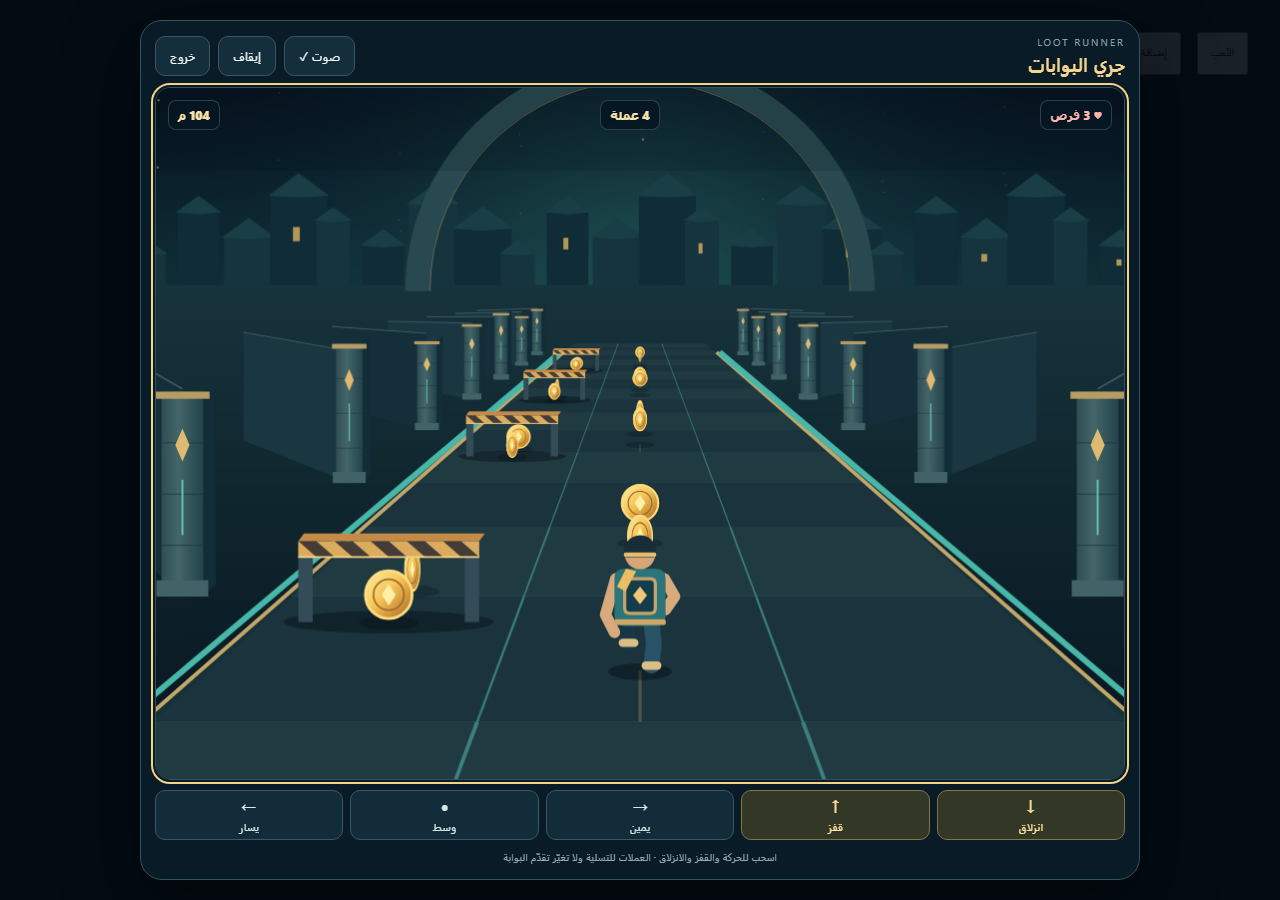
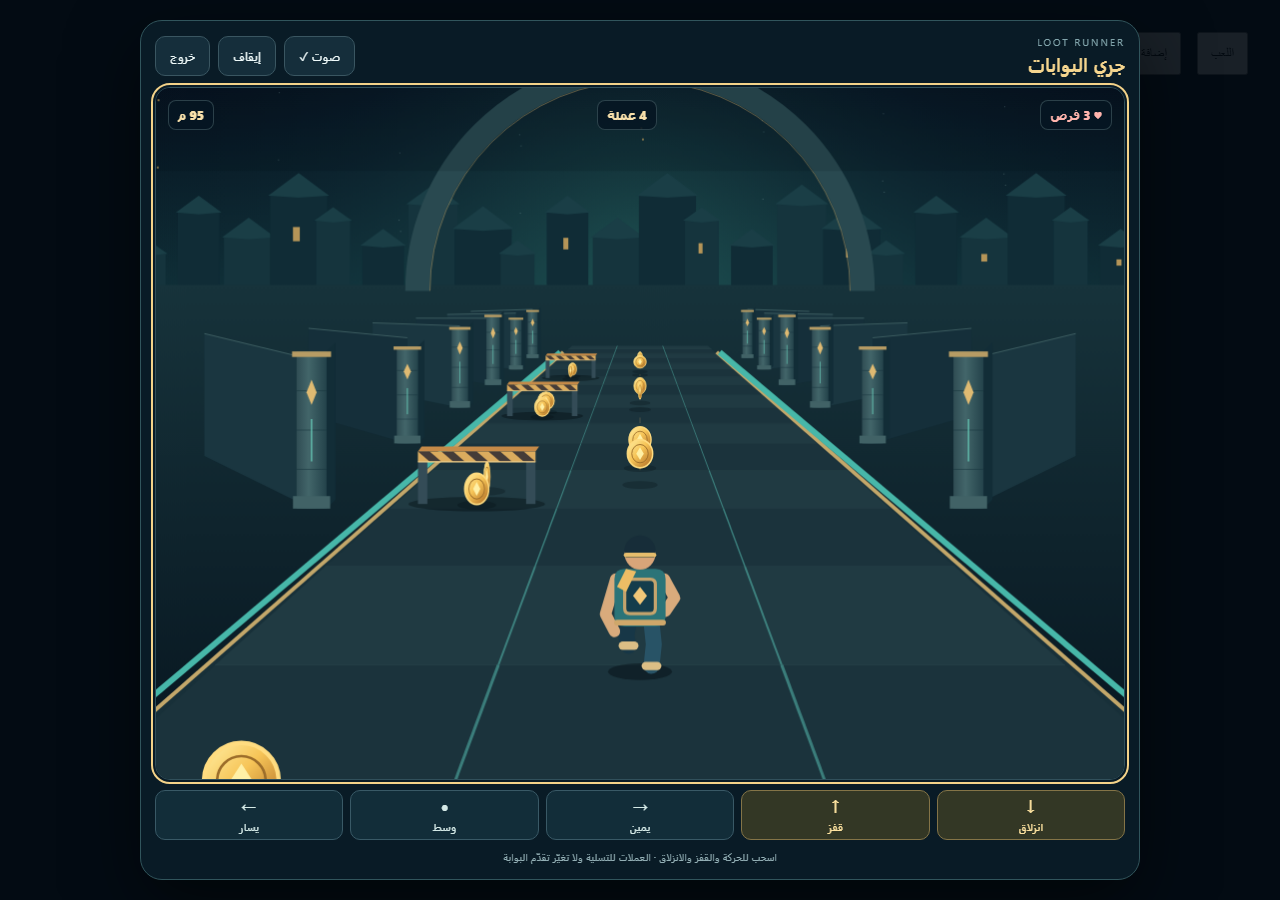
Improve runner action pacing and challenge; sync onboarding per account

diff --git a/js/runner-engine.js b/js/runner-engine.js
@@ -2,7 +2,7 @@
   'use strict';
   const LANES = 3, MAX_HEARTS = 3, MAX_ENTITIES = 48, MAX_EVENTS = 16;
   const FAR = 80, SPAWN_Z = 64, BASE_SPEED = 14, MAX_SPEED = 32;
-  const JUMP_MS = 1100, SLIDE_MS = 900, INVULNERABLE_MS = 1100;
+  const JUMP_MS = 640, SLIDE_MS = 480, ACTION_RECOVERY_MS = 70, INPUT_BUFFER_MS = 140, INVULNERABLE_MS = 1100;
   const clamp = (value, low, high) => Math.max(low, Math.min(high, value));
   const clean = value => String(value ?? '').trim().replace(/\s+/g, ' ');
 
@@ -30,7 +30,7 @@
       distance: 0, speed: BASE_SPEED, elapsed: 0, running: true, paused: false, over: false,
       action: 'run', actionStartedAt: 0, actionUntil: 0, invulnerableUntil: 0,
       entities: [], gate: null, feedback: null, events: [],
-      _random: rng,
+      _random: rng, _gateLanes: [], _lastGateLane: -1, _queuedAction: null,
       _pool: Array.from({ length: MAX_ENTITIES }, () => ({})), _nextId: 1,
       _nextRowAt: 400, _nextGateAt: 30000 + Math.floor(clamp(Number(rng()) || 0, 0, 1) * 12000), _row: 0, _escapeLane: 1, _safeUntil: 0,
       _canGate: new Set(normalized.map(item => item.meaning)).size >= LANES,
@@ -48,7 +48,18 @@
     state.lane = next; return true;
   }
   function startAction(state, action, duration) {
-    if (!usable(state) || getAction(state) !== 'run') return false;
+    if (!usable(state)) return false;
+    const current = getAction(state);
+    // Jump cancels a crouch; airborne input never resets the jump arc.
+    if (current !== 'run' && !(current === 'slide' && action === 'jump')) {
+      if (state.actionUntil - state.elapsed > INPUT_BUFFER_MS || state._queuedAction) return false;
+      state._queuedAction = action; return true;
+    }
+    if (current === 'run' && state.elapsed < state.actionUntil + ACTION_RECOVERY_MS && state.actionUntil > 0) {
+      if (state._queuedAction) return false;
+      state._queuedAction = action; return true;
+    }
+    state._queuedAction = null;
     state.action = action; state.actionStartedAt = state.elapsed; state.actionUntil = state.elapsed + duration;
     return true;
   }
@@ -87,11 +98,22 @@
     const alternatives = [...meanings].filter(meaning => meaning !== prompt.meaning);
     const first = choose(state, alternatives);
     const second = choose(state, alternatives.filter(meaning => meaning !== first));
-    const options = [prompt.meaning, first, second];
+    if (!state._gateLanes.length) {
+      state._gateLanes = [0, 1, 2];
+      for (let index = 2; index > 0; index--) {
+        const other = Math.floor(random(state) * (index + 1));
+        [state._gateLanes[index], state._gateLanes[other]] = [state._gateLanes[other], state._gateLanes[index]];
+      }
+      if (state._gateLanes[0] === state._lastGateLane) [state._gateLanes[0], state._gateLanes[1]] = [state._gateLanes[1], state._gateLanes[0]];
+    }
+    const correctLane = state._gateLanes.shift();
+    state._lastGateLane = correctLane;
+    const options = [first, second];
     for (let index = options.length - 1; index > 0; index--) {
       const other = Math.floor(random(state) * (index + 1));
       [options[index], options[other]] = [options[other], options[index]];
     }
+    options.splice(correctLane, 0, prompt.meaning);
     return { kind: 'gate', lane: 1, z: SPAWN_Z, word: prompt.word,
       options, correctLane: options.indexOf(prompt.meaning), correctMeaning: prompt.meaning };
   }
@@ -114,7 +136,7 @@
   function spawnRow(state) {
     if (state.elapsed < state._nextRowAt || state.elapsed < state._safeUntil) return;
     const reading = state.gate && !state.gate.resolved;
-    const clearance = (SPAWN_Z + 24) / BASE_SPEED * 1000 + 250;
+    const clearance = SPAWN_Z / state.speed * 1000 + 350;
     // Do not queue hidden hazards behind the reading veil: returning to full
     // speed would compress their spacing and reveal them too close together.
     const draining = reading || hasGateWords(state) && state._nextGateAt - state.elapsed < clearance;
@@ -123,13 +145,19 @@
     const escape = choose(state, escapeOptions);
     const blocked = [0, 1, 2].filter(lane => lane !== escape);
     if (random(state) > .5) blocked.reverse();
-    const obstacleCount = state.distance > 120 && random(state) > .25 ? 2 : 1;
-    if (state._pool.length < obstacleCount + 6) return;
+    const difficulty = clamp((state.distance - 180) / 1600, 0, 1);
+    const fullRow = state.distance > 240 && random(state) < .15 + difficulty * .5;
+    const obstacleCount = fullRow ? 3 : state.distance > 120 && random(state) < .6 + difficulty * .35 ? 2 : 1;
+    if (fullRow) blocked.push(escape);
+    if (state._pool.length < 12) return;
     const row = ++state._row;
     for (let index = 0; index < (draining ? 0 : obstacleCount); index++) {
       const lane = blocked[index];
       if (state.entities.some(item => item.obstacleType === 'train' && item.lane === lane && item.z > -item.length)) continue;
-      const type = row > 5 && row % 7 === 0 && index === 0 ? 'train' : choose(state, ['low', 'overhead', 'wall']);
+      // Even a closed row has a reachable action route, at most one lane away
+      // from the previous route. Trucks never occupy that guaranteed route.
+      const type = lane === escape ? choose(state, ['low', 'overhead']) :
+        row > 5 && row % 7 === 0 && index === 0 ? 'train' : choose(state, ['low', 'overhead', 'wall']);
       allocate(state, { kind: 'obstacle', obstacleType: type, length: type === 'train' ? 20 : 0, lane, z: spawnZ, row });
       if (type === 'train') for (const offset of [10, 15]) allocate(state, { kind: 'coin', lane, z: spawnZ + offset, height: 1.49, row });
       if (['low', 'overhead'].includes(type) && random(state) < .65) {
@@ -137,10 +165,12 @@
           height: type === 'low' ? 1.5 : .22, requires: type === 'low' ? 'jump' : 'slide', row });
       }
     }
-    allocate(state, { kind: 'coin', lane: escape, z: spawnZ + 3, row });
-    allocate(state, { kind: 'coin', lane: escape, z: spawnZ + 6, row });
+    if (!fullRow || draining) {
+      allocate(state, { kind: 'coin', lane: escape, z: spawnZ + 3, row });
+      allocate(state, { kind: 'coin', lane: escape, z: spawnZ + 6, row });
+    }
     state._escapeLane = escape;
-    state._nextRowAt = state.elapsed + Math.max(680, 1150 - state.distance / 3) + random(state) * 240;
+    state._nextRowAt = state.elapsed + Math.max(850, 1250 - difficulty * 400) + random(state) * 180;
   }
   function damage(state, at, cause) {
     if (at < state.invulnerableUntil || state.over) return false;
@@ -194,6 +224,10 @@
     }
     for (let index = state.entities.length - 1; index >= 0; index--) if (state.entities[index].z < -((state.entities[index].length || 0) + 8)) retire(state, index);
     if (getAction(state) === 'run') state.action = 'run';
+    if (state._queuedAction && getAction(state) === 'run' && state.elapsed >= state.actionUntil + ACTION_RECOVERY_MS) {
+      const action = state._queuedAction;
+      startAction(state, action, action === 'jump' ? JUMP_MS : SLIDE_MS);
+    }
     if (!state.over) spawnRow(state);
     return state;
   }

diff --git a/js/profile-cloud.js b/js/profile-cloud.js
@@ -3,7 +3,7 @@
 import { getApps }  from "https://www.gstatic.com/firebasejs/10.12.0/firebase-app.js";
 import { getFirestore, doc, getDoc, runTransaction, onSnapshot } from "https://www.gstatic.com/firebasejs/10.12.0/firebase-firestore.js";
 import { getAuth, onAuthStateChanged } from "https://www.gstatic.com/firebasejs/10.12.0/firebase-auth.js";
-import { applyProfileIntent, profileOperationId, profileStorageIntents } from './profile-sync-policy.mjs?v=20261106-motivation-1';
+import { applyProfileIntent, profileOperationId, profileStorageIntents, mergeOnboardingProgress } from './profile-sync-policy.mjs?v=20261106-onboarding-sync-1';
 
 // استخدم التطبيق الموجود فقط بدون إعادة تعريف إذا كان معرف مسبقًا
 let profileApp  = getApps()[0];
@@ -153,6 +153,37 @@ function enqueueProfileTask(owner, task) {
   running.finally(() => { if (_profileTaskQueues.get(key) === running) _profileTaskQueues.delete(key); }).catch(() => {});
   return running;
 }
+function syncOnboardingProgress(data, owner) {
+  const discoveryKey = `lootlingua:feature-discovery:v1:user:${owner.uid}`;
+  const personalKey = `lootlingua:personal-dictionary-onboarding:v1:user:${owner.uid}`;
+  const read = key => { try { return JSON.parse(localStorage.getItem(key) || 'null'); } catch (_) { return null; } };
+  const discovery = read(discoveryKey) || { version: 1, features: {} };
+  const features = { ...(discovery.features || {}) };
+  let changed = false;
+  for (const tour of ['treasure', 'quiz', 'starred', 'custom-worlds', 'personal-dictionary']) {
+    const personal = tour === 'personal-dictionary';
+    const local = personal ? read(personalKey) : features[tour];
+    const remote = data.onboardingProgress?.[tour];
+    const merged = mergeOnboardingProgress(tour, remote, local);
+    if (!merged) continue;
+    if (JSON.stringify(local) !== JSON.stringify(merged)) {
+      changed = true;
+      if (personal) localStorage.setItem(personalKey, JSON.stringify(merged));
+      else features[tour] = merged;
+    }
+    if (JSON.stringify(remote) !== JSON.stringify(merged)) {
+      // Hydration suppresses intents. Import the account's local checkpoints
+      // after hydration, guarded against sign-out/account switching.
+      queueMicrotask(() => {
+        if (isProfileOwnerCurrent(owner)) window.queueProfileIntent?.({ type: 'onboarding', tour, state: merged });
+      });
+    }
+  }
+  if (changed) {
+    localStorage.setItem(discoveryKey, JSON.stringify({ version: 1, features }));
+    window.dispatchEvent(new CustomEvent('lootlingua:onboarding-cloud-change', { detail: { uid: owner.uid } }));
+  }
+}
 function applyCanonicalProfile(data, owner) {
   if (!isProfileOwnerCurrent(owner)) return;
   const known = window.__lootlinguaProfileSnapshot;
@@ -163,7 +194,7 @@ function applyCanonicalProfile(data, owner) {
     // A lost acknowledgement may already be present in this snapshot; replaying
     // an additive counter or wallet locally would display it twice.
     for (const command of operation.commands) {
-      if (['max', 'titles', 'union', 'appearance', 'quest', 'exposure', 'loot-progress'].includes(command.type)) {
+      if (['max', 'titles', 'union', 'appearance', 'quest', 'exposure', 'loot-progress', 'onboarding'].includes(command.type)) {
         projected = applyProfileIntent(projected, command).profile;
       }
     }
@@ -173,6 +204,7 @@ function applyCanonicalProfile(data, owner) {
   try {
     if (typeof window.applyCanonicalLootlinguaProfile === 'function') window.applyCanonicalLootlinguaProfile(projected);
     else window.mergeLootlinguaProfileFromCloud?.(projected, { canonical: true });
+    syncOnboardingProgress(projected, owner);
     _profileLocalBaselines.set(owner.uid, window.getLootlinguaProfilePayload?.() || projected);
     try { window.LootLinguaMotivation?.acceptProfile?.(data, owner.uid); }
     catch (error) { console.warn('[Motivation] Profile presentation deferred.', error); }

diff --git a/index.html b/index.html
@@ -759,8 +759,8 @@
             <span class="theme-status-label" aria-hidden="true"></span>
           </button>
           
-          <button type="button" class="theme-option"
-            data-theme="glass"
+          <button type="button" class="theme-option theme-coming-soon"
+            data-theme="glass" data-coming-soon="1"
             data-unlock-level="5"
             aria-pressed="false"
             onclick="setTheme('glass')"
@@ -770,8 +770,8 @@
 
             <span class="theme-display-name">الثيم الزجاجي</span>
 
-            <span class="theme-status-label theme-status-label--level">
-             مقفل — Level 5
+            <span class="theme-status-label theme-status-label--soon">
+             قريباً
            </span>
            </button>
            </div>
@@ -1145,8 +1145,8 @@
   <script src="js/feature-discovery-contract.js?v=20261104-discovery-1"></script>
 <script data-startup-critical src="js/entry-experience-controller.js?v=20261106-motivation-1"></script>
 <script src="js/guided-first-journey-controller.js?v=20261104-coach-polish-3"></script>
-<script src="js/personal-dictionary-onboarding.js?v=20261104-guidance-2"></script>
-  <script src="js/feature-discovery-controller.js?v=20261104-world-guide-4"></script>
+<script src="js/personal-dictionary-onboarding.js?v=20261106-onboarding-sync-1"></script>
+  <script src="js/feature-discovery-controller.js?v=20261106-onboarding-sync-1"></script>
 <script src="js/feature-mini-onboarding.js?v=20261106-rewards-layout-1"></script>
 <script data-startup-critical type="module" src="js/cloud.js?v=20261106-stage2-1"></script>
 <script data-startup-critical type="module" src="js/entry-experience-cloud.js?v=20260808-1"></script>
@@ -1184,7 +1184,7 @@
 </div>
 
 <!-- ══ FIREBASE PROFILE SYNC ══ -->
-  <script data-startup-critical type="module" src="js/profile-cloud.js?v=20261106-motivation-1"></script>
+  <script data-startup-critical type="module" src="js/profile-cloud.js?v=20261106-onboarding-sync-1"></script>
 <script type="module" src="js/published-content.js?v=20260722-1"></script>
 <script data-startup-critical type="module" src="js/journey-cloud.js?v=20261105-pages-1"></script>
 <script type="module" src="js/notification-cloud.js?v=20260811-1"></script>
@@ -1209,11 +1209,11 @@
 <script src="js/level-placement.js?v=20260728-1"></script>
 <script src="js/word-list-data.js?v=20261106-admin-fixes-1"></script>
 <script data-startup-critical src="js/script.js?v=20261106-admin-fixes-1"></script>
-<script src="js/xp.js?v=20261106-glass-release-1"></script>
+<script src="js/xp.js?v=20261106-glass-paused-1"></script>
 <script src="js/xp-batch.js?v=20261105-integrity-1"></script>
 <script src="js/dictionary.js?v=20261106-stage2-1"></script>
 <script src="js/gate-game-migration.js?v=20261007-1"></script>
-<script src="js/gate-runner.js?v=20261106-runner-3"></script>
+<script src="js/gate-runner.js?v=20261106-runner-4"></script>
 <script src="js/worlds.js?v=20261106-motivation-1"></script>
 <script src="js/dictionary-window.js?v=20261105-render-1"></script>
 <script src="js/dictionary-render.js?v=20261105-pages-1"></script>

diff --git a/js/runner-renderer.js b/js/runner-renderer.js
@@ -263,13 +263,17 @@
       context.save(); context.translate(p.x, p.y - elevation + sway);
       if (Number(state.invulnerableUntil) > Number(state.elapsed) && Math.floor(activeTime / 80) % 2) context.globalAlpha = .58;
       if (sliding) {
-        limb(-h * .03, -h * .19, -h * .24, -h * .08, -h * .31, 0, '#173d51', h * .12);
-        limb(h * .08, -h * .19, h * .24, -h * .09, h * .34, -h * .02, '#244d5e', h * .12);
-        context.fillStyle = '#317e80'; rounded(context, -h * .24, -h * .4, h * .44, h * .23, h * .09); context.fill();
-        limb(-h * .15, -h * .31, -h * .3, -h * .27, -h * .35, -h * .15, '#d2a077', h * .08);
-        context.fillStyle = '#dcae7b'; context.beginPath(); context.arc(h * .15, -h * .38, h * .115, 0, Math.PI * 2); context.fill();
-        context.fillStyle = '#162e3c'; context.beginPath(); context.arc(h * .15, -h * .41, h * .115, Math.PI, Math.PI * 2); context.fill();
-        line(context, -h * .08, -h * .35, h * .02, -h * .35, '#f4ca7a', h * .05);
+        // A compact feet-first slide, viewed from behind, rather than a split.
+        limb(-h * .07, -h * .15, -h * .12, -h * .07, -h * .1, 0, '#173d51', h * .12);
+        limb(h * .07, -h * .15, h * .12, -h * .1, h * .13, -h * .025, '#244d5e', h * .12);
+        line(context, -h * .15, 0, -h * .05, 0, '#dbbe85', h * .055);
+        line(context, h * .08, -h * .025, h * .18, -h * .025, '#dbbe85', h * .055);
+        context.fillStyle = '#317e80'; rounded(context, -h * .18, -h * .31, h * .36, h * .19, h * .07); context.fill();
+        context.fillStyle = '#143d4c'; rounded(context, -h * .09, -h * .29, h * .18, h * .14, h * .035); context.fill();
+        for (const side of [-1, 1]) limb(side * h * .16, -h * .25, side * h * .22, -h * .15, side * h * .19, -h * .08, '#d2a077', h * .07);
+        context.fillStyle = '#dcae7b'; context.beginPath(); context.arc(0, -h * .33, h * .095, 0, Math.PI * 2); context.fill();
+        context.fillStyle = '#162e3c'; context.beginPath(); context.arc(0, -h * .35, h * .095, Math.PI, Math.PI * 2); context.fill();
+        line(context, -h * .085, -h * .33, h * .085, -h * .33, '#f4ca7a', h * .03);
       } else {
         const stride = jumping ? .38 : Math.sin(phase);
         // Viewed from behind: feet cycle in depth/height, never sweep sideways.

diff --git a/js/feature-discovery-controller.js b/js/feature-discovery-controller.js
@@ -12,7 +12,13 @@
     try { return api().normalize(JSON.parse(localStorage.getItem(api().storageKey(identityValue)))); } catch (_) { return null; }
   }
   function write(next, identityValue) {
+    const before = read(identityValue);
     localStorage.setItem(api().storageKey(identityValue), JSON.stringify(next));
+    if (identityValue.uid && identityValue.uid === user()?.uid) {
+      for (const [tour, progress] of Object.entries(next.features || {})) {
+        if (JSON.stringify(before?.features?.[tour]) !== JSON.stringify(progress)) root.queueProfileIntent?.({ type: 'onboarding', tour, state: progress });
+      }
+    }
   }
   function load() {
     if (!api()) return null;
@@ -194,6 +200,7 @@
   }
 
   root.addEventListener('lootlingua:auth-state', () => { loadedOwner = ''; load(); requestEvaluation(); });
+  root.addEventListener('lootlingua:onboarding-cloud-change', () => { loadedOwner = ''; state = null; load(); requestEvaluation(); });
   ['lootlingua:initial-data-ready', 'lootlingua:learning-data-changed', 'lootlingua:entry-state-ready', 'lootlingua:guided-first-journey-change', 'lootlingua:personal-dictionary-onboarding-change']
     .forEach((eventName) => root.addEventListener(eventName, requestEvaluation));
   if (typeof document !== 'undefined') {

diff --git a/js/gate-runner.js b/js/gate-runner.js
@@ -67,11 +67,11 @@
     });
     const css = document.querySelector('link[data-runner-style]');
     const styles = css ? Promise.resolve() : new Promise((resolve, reject) => {
-      const link = document.createElement('link'); link.rel = 'stylesheet'; link.href = 'runner.css?v=20261106-runner-3';
+      const link = document.createElement('link'); link.rel = 'stylesheet'; link.href = 'runner.css?v=20261106-runner-4';
       link.dataset.runnerStyle = ''; link.onload = resolve; link.onerror = () => { link.remove(); reject(new Error('Runner styles unavailable')); };
       document.head.append(link);
     });
-    resources = Promise.all([styles, module('LootLinguaRunnerEngine', 'js/runner-engine.js?v=20261106-runner-3'), module('LootLinguaRunnerRenderer', 'js/runner-renderer.js?v=20261106-runner-3')]).catch(error => { resources = null; throw error; });
+    resources = Promise.all([styles, module('LootLinguaRunnerEngine', 'js/runner-engine.js?v=20261106-runner-4'), module('LootLinguaRunnerRenderer', 'js/runner-renderer.js?v=20261106-runner-4')]).catch(error => { resources = null; throw error; });
     return resources;
   }
   function button(label, cls, action) {

diff --git a/js/personal-dictionary-onboarding.js b/js/personal-dictionary-onboarding.js
@@ -39,6 +39,7 @@
   function write(value, forOwner = owner()) {
     const next = { ...value, version: VERSION, updatedAt: Date.now() };
     localStorage.setItem(key(forOwner), JSON.stringify(next));
+    if (forOwner !== 'guest' && forOwner === owner()) root.queueProfileIntent?.({ type: 'onboarding', tour: 'personal-dictionary', state: next });
     return next;
   }
   function advance() {
@@ -163,6 +164,11 @@
   Object.defineProperty(root, 'LootLinguaPersonalDictionaryOnboarding', { value: Object.freeze(api), configurable: false });
 
   root.addEventListener('lootlingua:guided-first-journey-change', () => continueWhenReady());
+  root.addEventListener('lootlingua:onboarding-cloud-change', () => {
+    renderToken += 1;
+    root.LootLinguaPopover?.closeIf?.(COACH_ID, { silent: true });
+    continueWhenReady();
+  });
   root.addEventListener('lootlingua:dictionary-word-saved', (event) => {
     if (event.detail?.scope && event.detail.scope !== 'personal') return;
     const state = read();

diff --git a/js/xp.js b/js/xp.js
@@ -41,7 +41,7 @@ const THEME_DISPLAY_NAMES = {
 };
 
 /** ثيمات/ميزات معطّلة مؤقتاً — تظهر باهتة مع «قريباً» */
-const THEMES_COMING_SOON = new Set();
+const THEMES_COMING_SOON = new Set(['glass']);
 function isThemeComingSoon(theme) {
   return THEMES_COMING_SOON.has(theme);
 }
